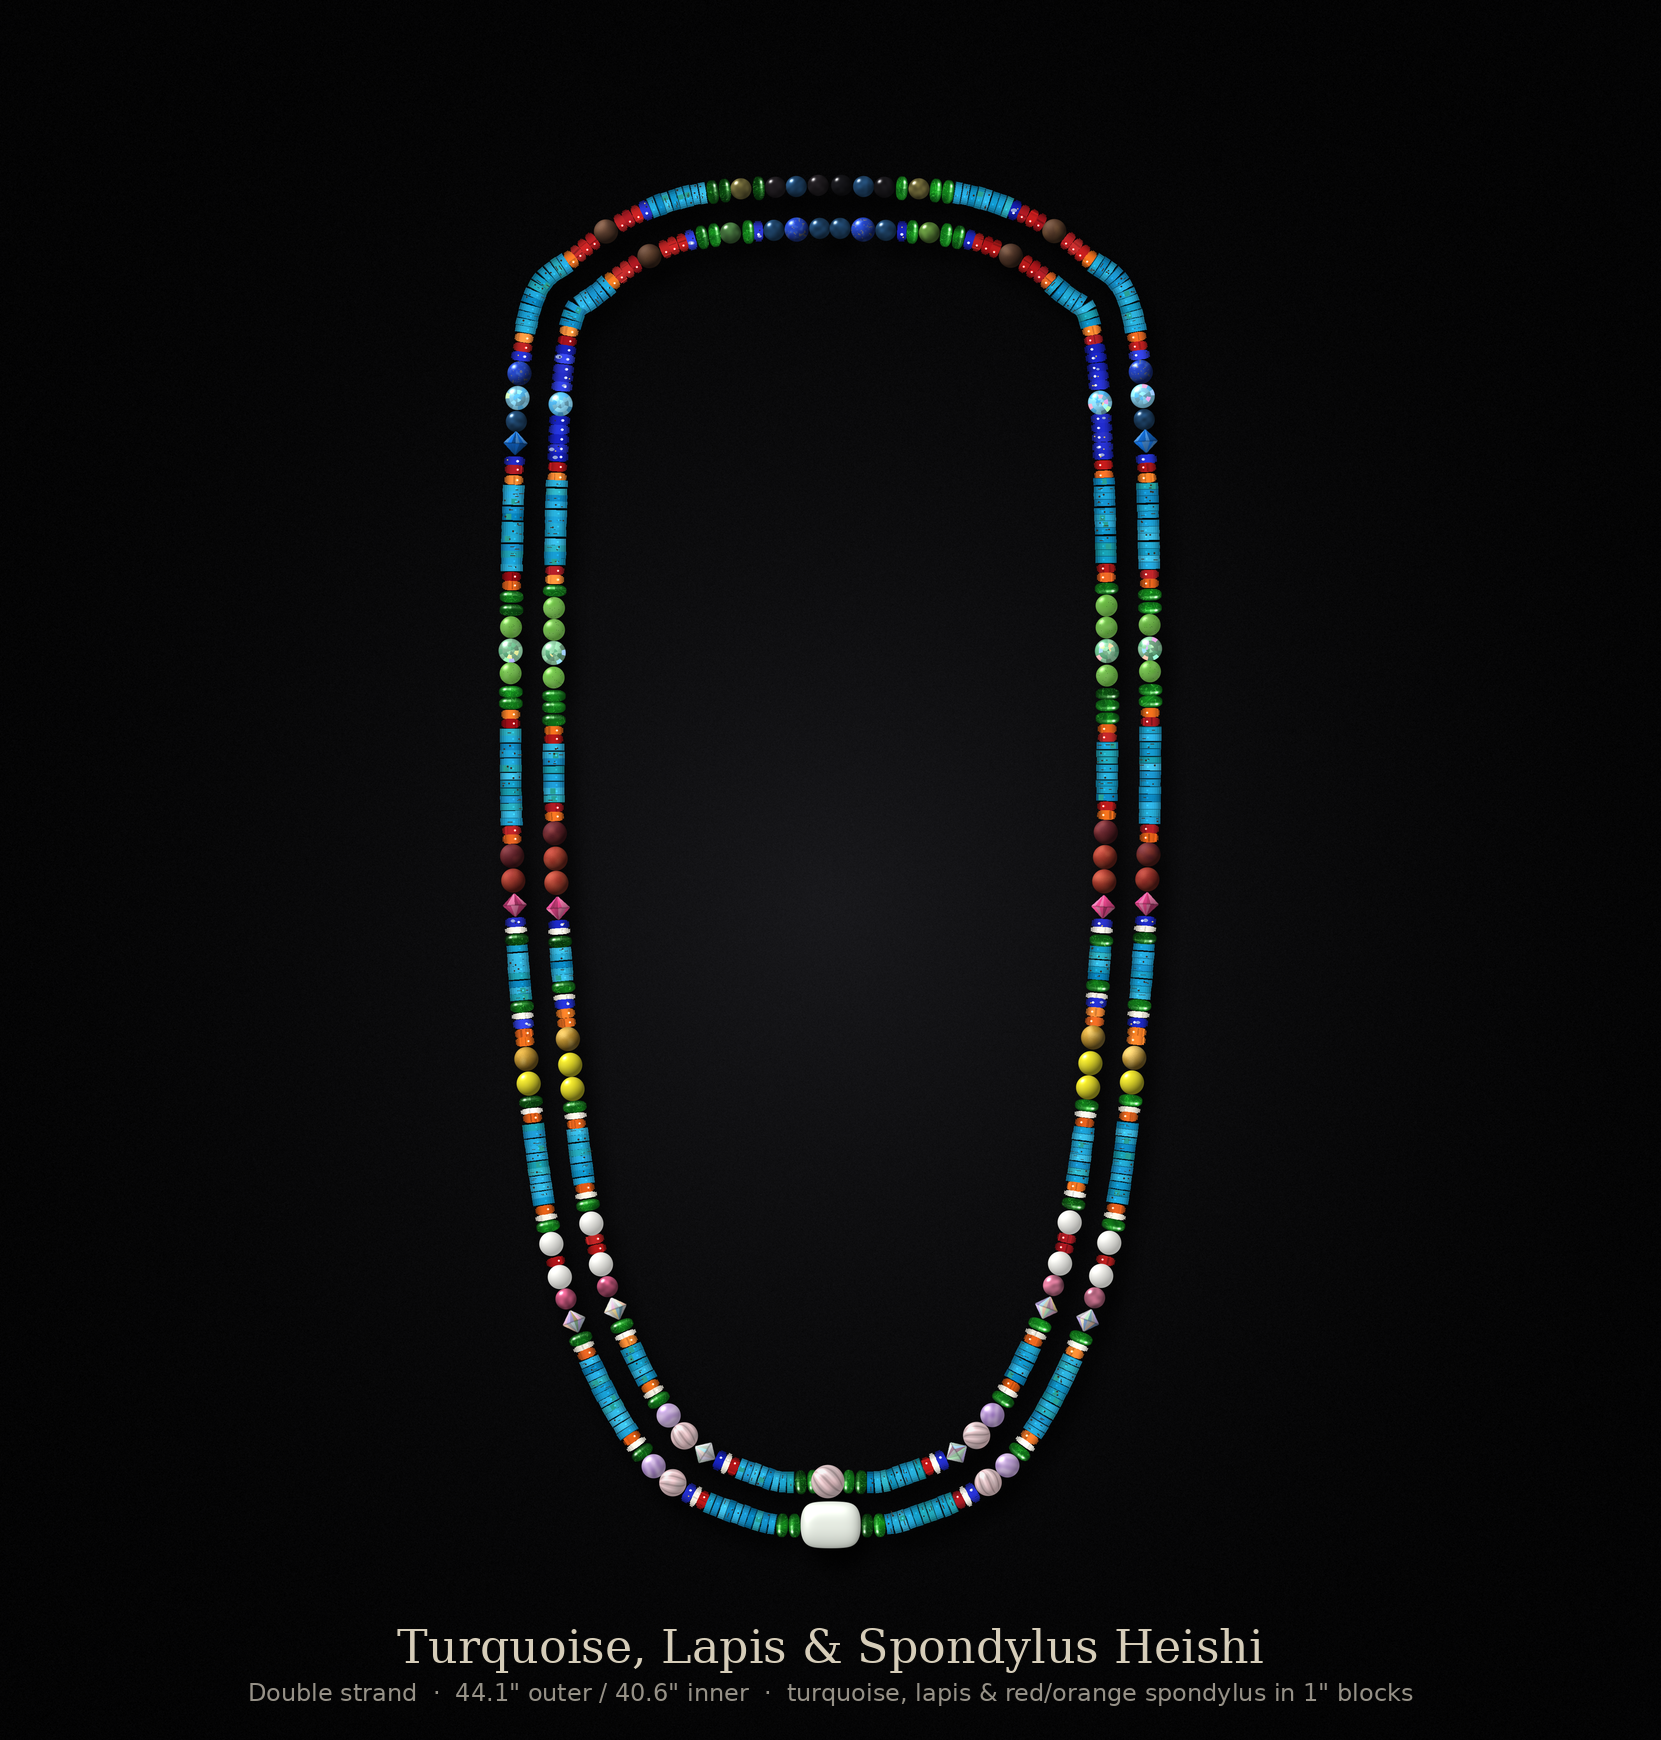
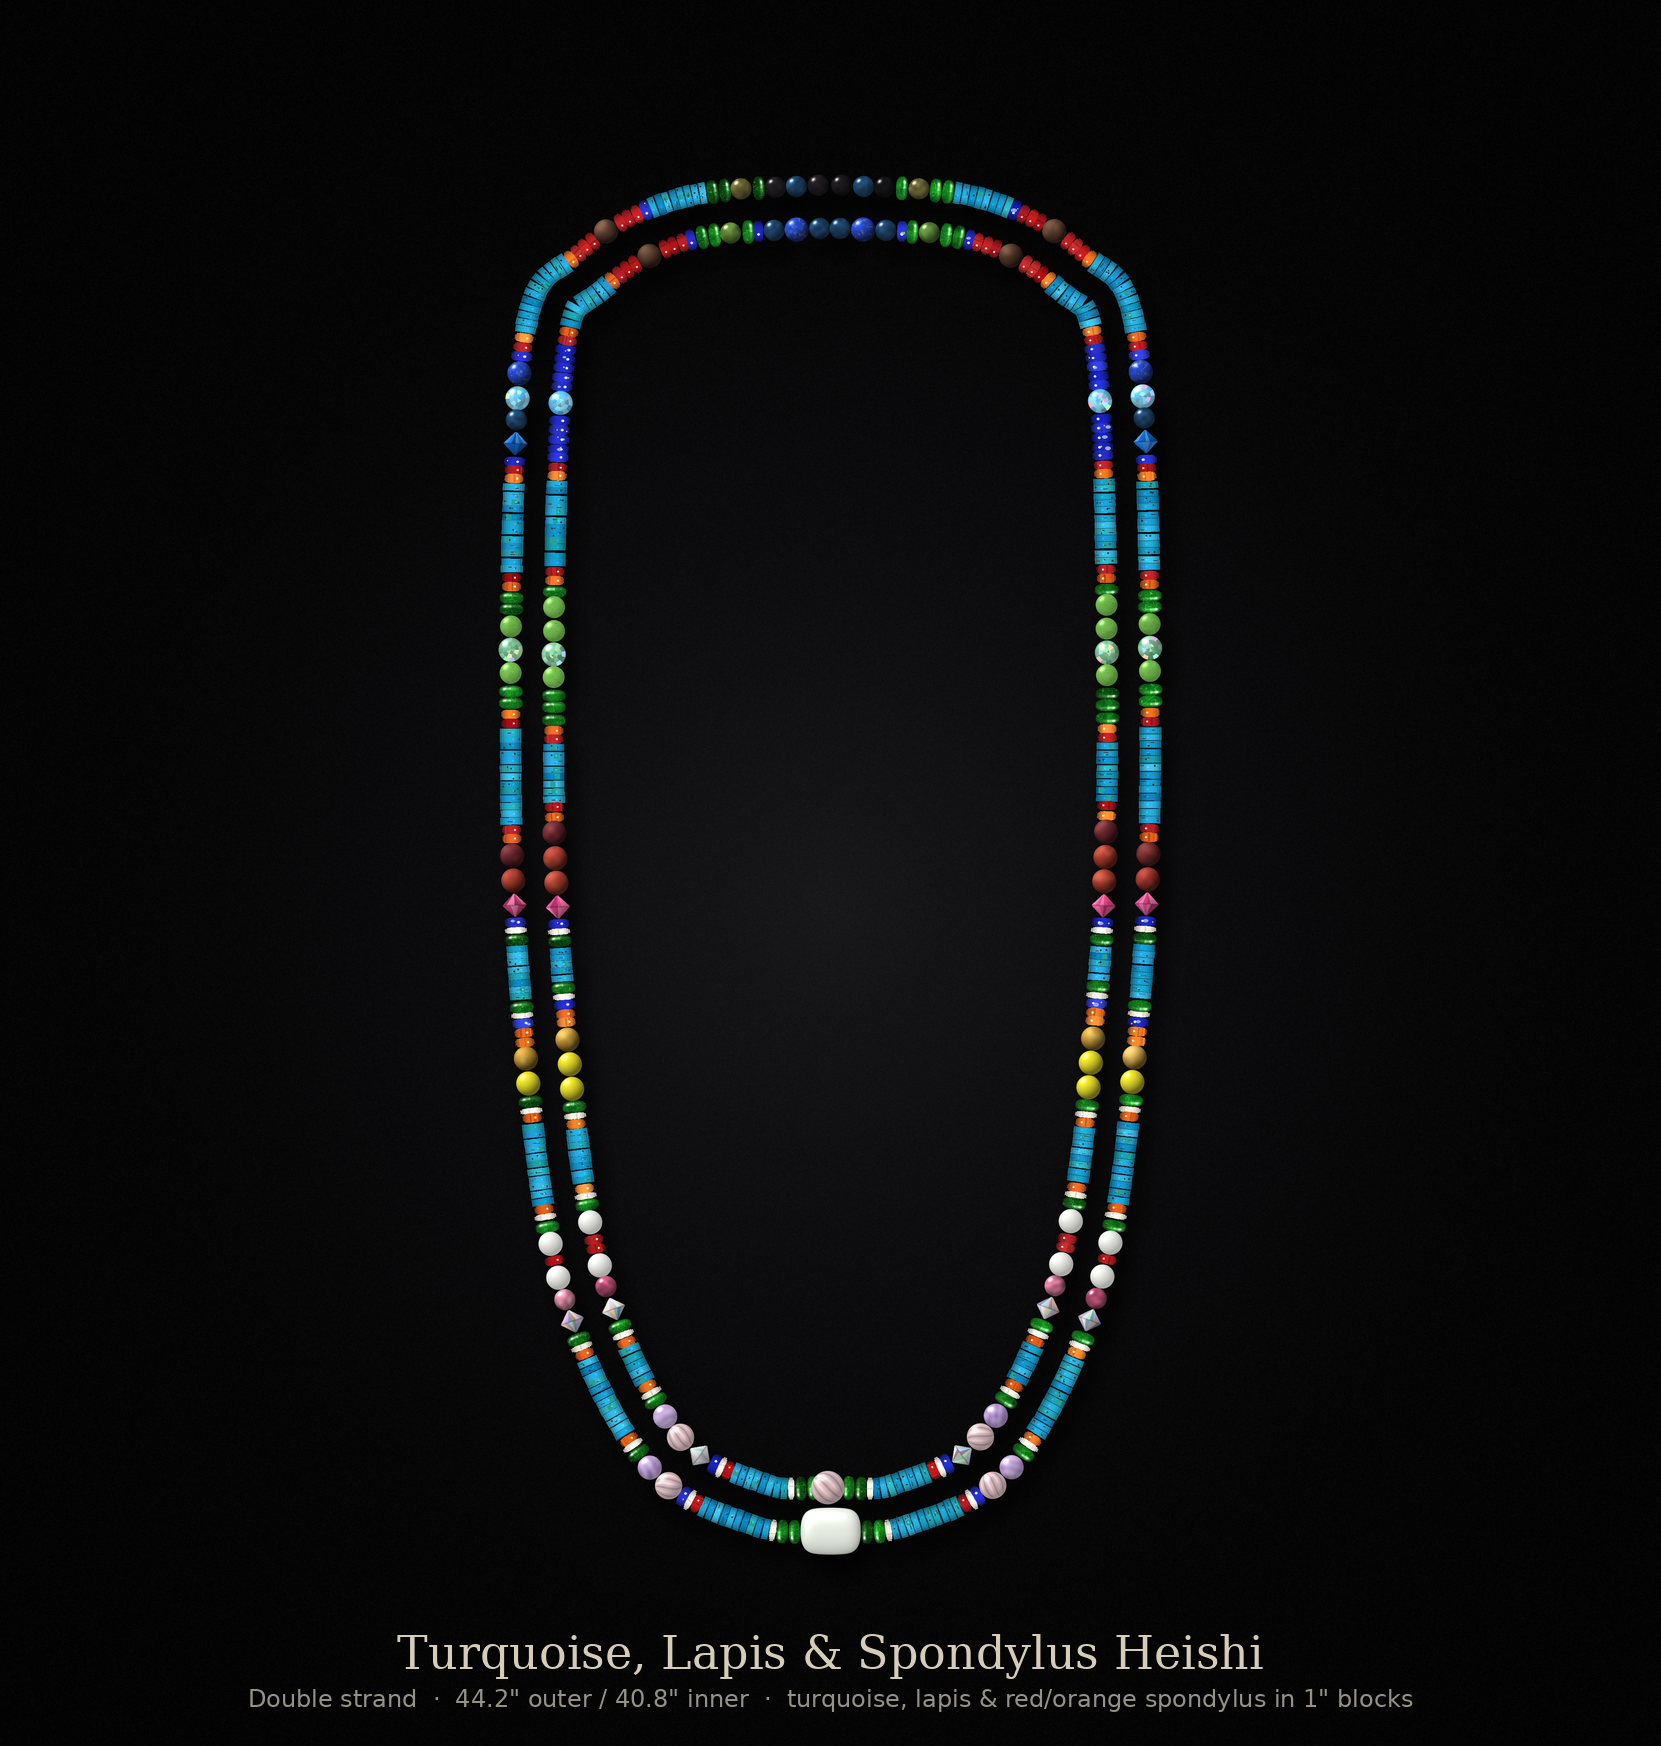
Version 5: white conch where the centre diopside meets the turquoise; 44.2"
Claude-Session: https://claude.ai/code/session_014be1vF4Rdf8sv9Si75Gudv

Changed region(s): [[0.2763, 0.0931, 0.7062, 0.9], [0.522, 0.1241, 0.5527, 0.1552]]

diff --git a/necklace/render_necklace.py b/necklace/render_necklace.py
@@ -20,7 +20,8 @@ V5_EXT3 = 0.0                            # (red above the bicone removed again) 
 V5_EXT4 = 7.0 if V5 else 0.0             # v5: a pink tourmaline moves from the outer to the inner bottom band (+7 mm per side)
 V5_EXT5 = 5 * 2.0 if V5 else 0.0         # v5: white conch at the 5 lower orange/green borders per strand side (+10 mm per side)
 V5_EXT6 = -3.0 - 1.0 if V5 else 0.0      # (and -1 mm: lapis replaces the 4 mm diopside by the centre-side conch)            # v5: red above the white-section AB bicones removed (-3 mm per side)
-C_OUT, GAP, BEAD_D = 42 * INCH + 2 * (V5_EXT + V5_EXT2 + V5_EXT3 + V5_EXT4 + V5_EXT5 + V5_EXT6), (11.2 if EXTRAS else (14.0 if V2 else 10.0)), 7.0   # v2: room for 18 mm naga conch
+V5_EXT7 = 2.0 if V5 else 0.0             # v5: white conch beside the centre diopside (+2 mm per side)
+C_OUT, GAP, BEAD_D = 42 * INCH + 2 * (V5_EXT + V5_EXT2 + V5_EXT3 + V5_EXT4 + V5_EXT5 + V5_EXT6 + V5_EXT7), (11.2 if EXTRAS else (14.0 if V2 else 10.0)), 7.0   # v2: room for 18 mm naga conch
 C_IN = C_OUT - 2 * math.pi * GAP    # inner strand: 8 mm smaller radius -> ~38"
 NSEG, BPS = 42, 16                  # 1 inch blocks, ~16 heishi (1.6 mm) per block
 
@@ -1213,13 +1214,13 @@ if V4:
             gaps = [f / 2] + [f] * len(STN)
             if V5:
                 # align band centres by height: use common fractions computed from the widest of each band pair
-                Hin = (s_in[-1] + HIDDEN_IN) / 2 - SZ[CENTRE[1]] / 2 - V5_EXT - V5_EXT2 - V5_EXT3 - V5_EXT4 - V5_EXT5 - V5_EXT6   # layout at the old length
+                Hin = (s_in[-1] + HIDDEN_IN) / 2 - SZ[CENTRE[1]] / 2 - V5_EXT - V5_EXT2 - V5_EXT3 - V5_EXT4 - V5_EXT5 - V5_EXT6 - V5_EXT7   # layout at the old length
                 Wmax = [max(sum(SZ[k] for k in b[0]), sum(SZ[k] for k in b[1])) for b in BANDS]
                 gapc = (Hin - sum(Wmax)) / (len(BANDS) + 0.5)
                 cen, acc = [], gapc / 2
                 for w in Wmax:
                     cen.append((acc + w / 2) / Hin); acc += w + gapc
-                Hs = H2 - cz - V5_EXT - V5_EXT2 - V5_EXT3 - V5_EXT4 - V5_EXT5 - V5_EXT6                # layout at the old length; the extension goes in below the blue band
+                Hs = H2 - cz - V5_EXT - V5_EXT2 - V5_EXT3 - V5_EXT4 - V5_EXT5 - V5_EXT6 - V5_EXT7                # layout at the old length; the extension goes in below the blue band
                 # turquoise gaps come from the unframed layout; the extra frame width is taken from the top section
                 Wmax0 = [max(sum(SZ[k] for k in b[0]), sum(SZ[k] for k in b[1])) for b in BANDS_PREV]
                 gapc0 = (Hin - sum(Wmax0)) / (len(BANDS_PREV) + 0.5)
@@ -1482,6 +1483,8 @@ if V4:
                 put(H2 - cz - PER_L_ / 2, "diop")
                 put(H2 - cz - 1.5 * PER_L_, "diop")
                 V4_USED["diop"] = V4_USED.get("diop", 0) + 4
+                put(H2 - cz - 2 * PER_L_ - SZ["conch"] / 2, "conch")   # white conch where the green meets the turquoise
+                V4_USED["conch"] = V4_USED.get("conch", 0) + 2
             # centre bead at the bottom (one only)
             sp = H2 - Hh / 2
             j = min(int(np.searchsorted(ss, sp)), len(path) - 1)
